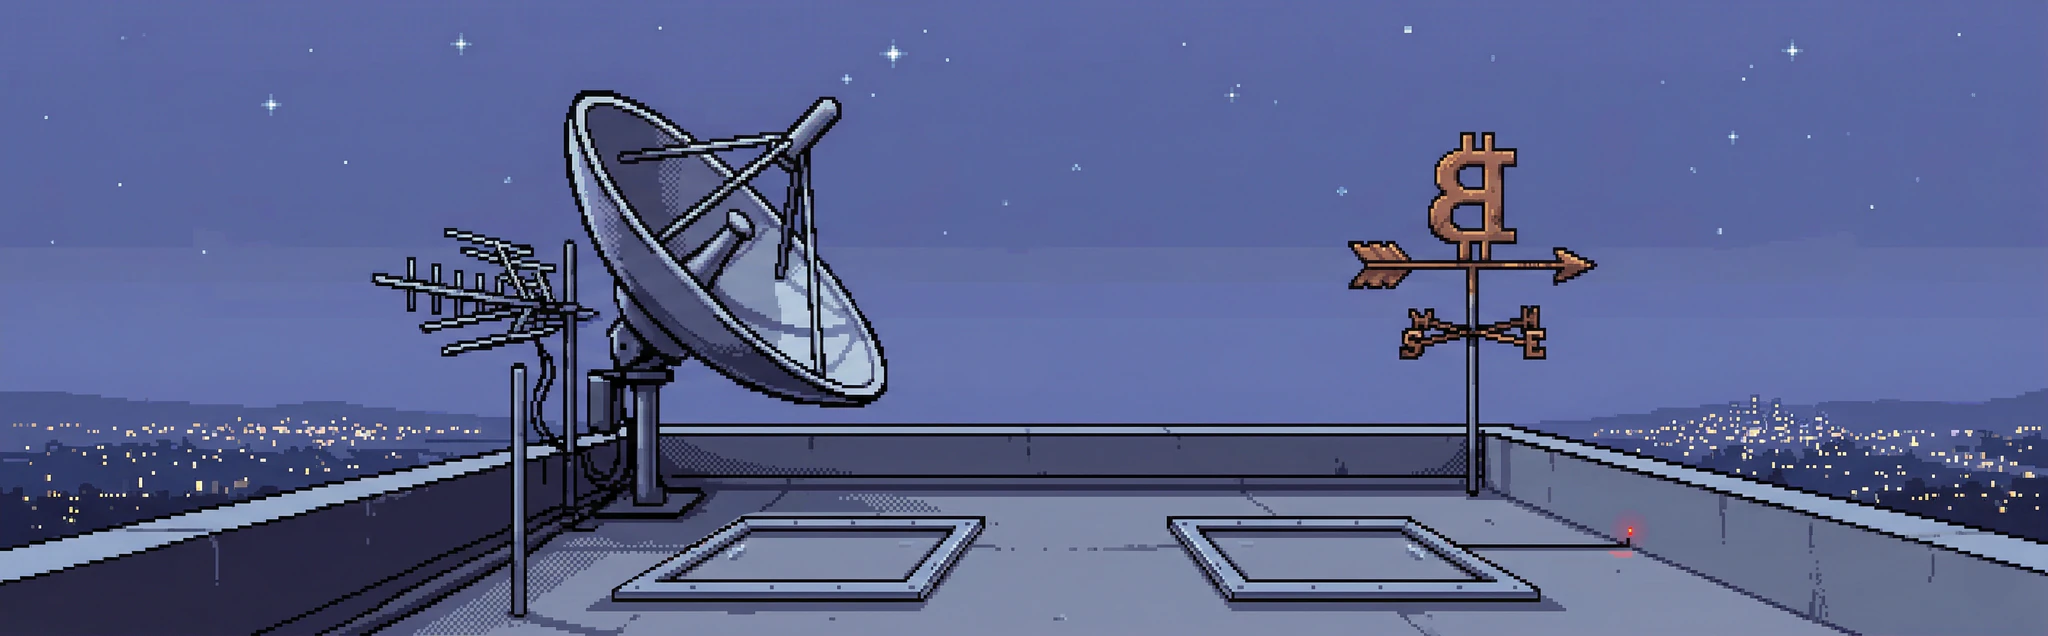
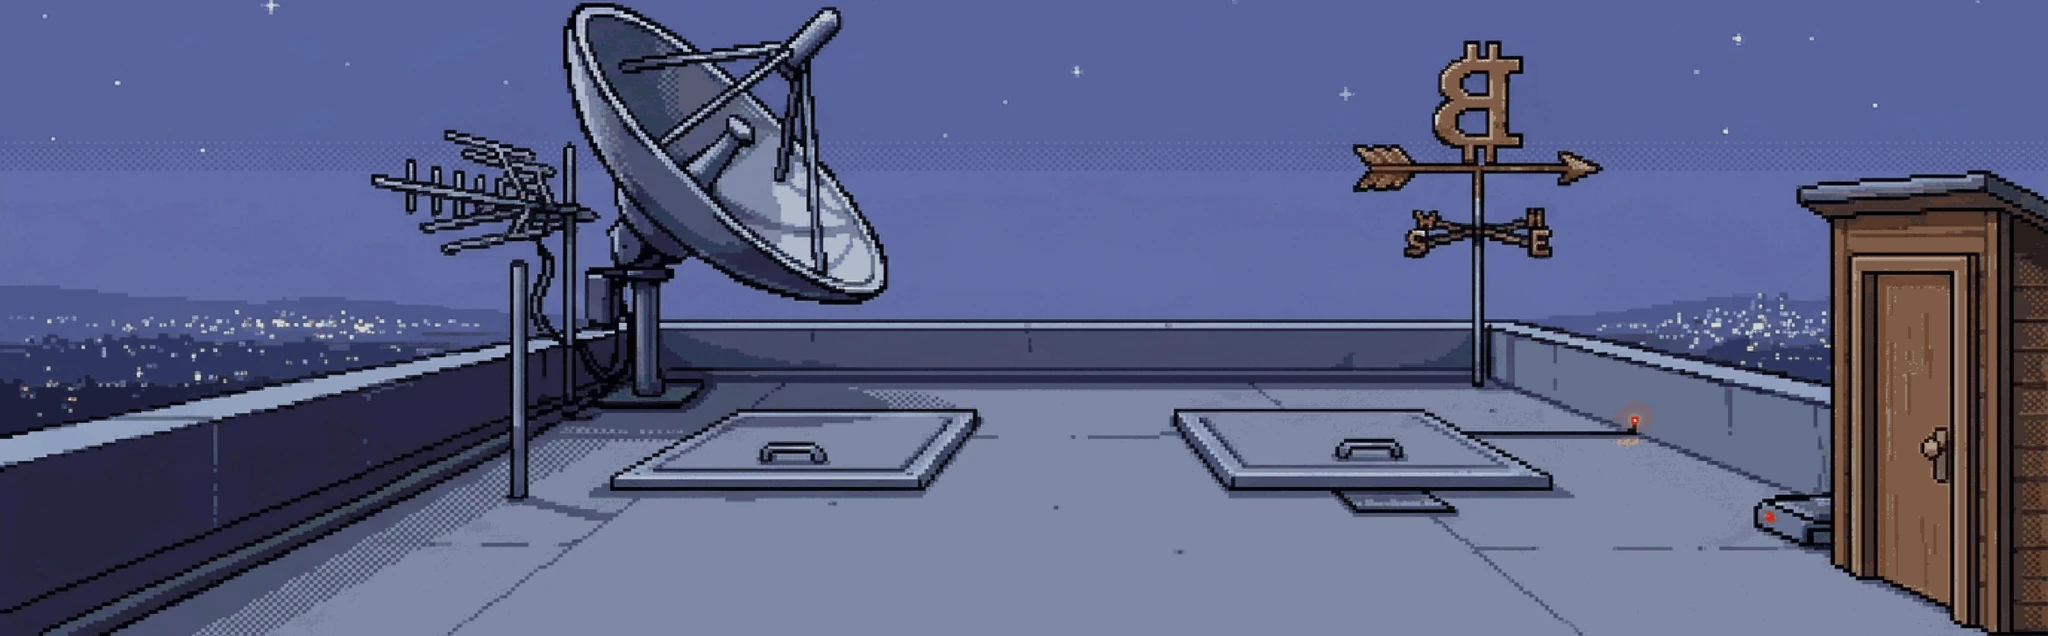
wip(scumm-F1): fondo nuevo de la azotea desde el arte de Adrián (franja 135-625, paleta de la casa, vecino más cercano) y vane_flipped en espejo

diff --git a/scripts/make-rooftop-bg.py b/scripts/make-rooftop-bg.py
@@ -1,0 +1,154 @@
+#!/usr/bin/env python3
+# F1 (plan SCUMM, «Arte pendiente»): fondo nuevo de la azotea a partir del arte de Adrián (Gem «Scumm Engine»,
+# art/rooftop/rooftop-gem-v1.jpeg, 1376x768, 16:9). Determinista: mismo JPEG => mismos bytes.
+#
+#   1. Franja y 135..625 del JPEG (490 px de alto, ancho entero): entra TODO lo interactivo (parabólica entera, veleta,
+#      trampillas, puerta hasta el suelo y el suelo andable hasta el borde del tejado). Una franja 3,2:1 pura (430 px)
+#      cortaba la parabólica o los pies de la puerta (ver docs/progreso/F1.md y --compare).
+#   2-3. Limpieza de JPEG = cuantización SIN tramado a la paleta de la casa: el ruido y los halos del JPEG caen en el
+#      color plano más cercano. 192 colores sacados (corte por la mediana) de los fondos de upstairs, lobby y el rooftop
+#      anterior (de noche; pesa 6 veces para que los grises lavanda no se vayan al verde azulado de la casa), más el rojo
+#      de la luz del sótano y el amarillo de las luces. Se probó una mediana 3x3 antes: se comía las luces de la ciudad
+#      y las estrellas (2 px en el JPEG), así que no se usa.
+#   4. Escala a 3712x1152 por vecino más cercano: x ×2,698, y ×2,351 (anisotropía 14,8 %, dentro del 15 % pedido).
+#   5. vane_flipped: la cabeza de la veleta (B, flecha y rosa de los vientos) en espejo sobre el eje del mástil, recortada
+#      a su caja; escribe bounds en scene.json (conditionalOverlays[id=vane_flipped]).
+#
+# Uso:  python3 scripts/make-rooftop-bg.py                 escribe background.png/.webp, @2048, @1280 y vane_flipped.webp
+#       python3 scripts/make-rooftop-bg.py --compare OUT   además una hoja comparando los recortes posibles
+# Las variantes @2048/@1280 se hacen como scripts/make-bg-variants.mjs (Lanczos, WebP con pérdida q90) pero con Pillow,
+# para no depender de sharp; `node scripts/make-bg-variants.mjs --check` las da por buenas (solo mira tamaños).
+import json
+import os
+import sys
+
+from PIL import Image
+
+ROOT = os.path.join(os.path.dirname(os.path.abspath(__file__)), '..')
+SRC = os.path.join(ROOT, 'art', 'rooftop', 'rooftop-gem-v1.jpeg')
+SCENE_DIR = os.path.join(ROOT, 'assets', 'scenes', 'rooftop')
+PALETTE_FROM = [('upstairs', 1), ('lobby', 1)]
+OLD_ROOFTOP = os.path.join(ROOT, 'art', 'rooftop', 'rooftop-old-palette.png')  # copia reducida del fondo anterior
+W, H = 3712, 1152
+CROP = (0, 135, 1376, 625)
+N_COLORS = 192
+EXTRA = [(255, 64, 56), (200, 40, 40), (255, 210, 120)]  # luz roja (núcleo y halo) y luces de la ciudad
+VARIANTS = (1280, 2048)
+WEBP_Q = 90
+
+
+def build_palette():
+    tiles = []
+    for scene, weight in PALETTE_FROM:
+        im = Image.open(os.path.join(ROOT, 'assets', 'scenes', scene, 'background.png')).convert('RGB')
+        tiles += [im.resize((928, 288), Image.NEAREST)] * weight
+    old = Image.open(OLD_ROOFTOP).convert('RGB').resize((928, 288), Image.NEAREST)
+    tiles += [old] * 6
+    mosaic = Image.new('RGB', (928, 288 * len(tiles)))
+    for i, t in enumerate(tiles):
+        mosaic.paste(t, (0, 288 * i))
+    q = mosaic.quantize(colors=N_COLORS - len(EXTRA), method=Image.Quantize.MEDIANCUT, dither=Image.Dither.NONE)
+    flat = q.getpalette()[: 3 * (N_COLORS - len(EXTRA))]
+    for c in EXTRA:
+        flat += list(c)
+    pal = Image.new('P', (1, 1))
+    pal.putpalette(flat + [0] * (768 - len(flat)))
+    return pal
+
+
+def make_background():
+    src = Image.open(SRC).convert('RGB')
+    band = src.crop(CROP)
+    q = band.quantize(palette=build_palette(), dither=Image.Dither.NONE).convert('RGB')
+    return q.resize((W, H), Image.NEAREST)
+
+
+def write_variants(bg):
+    bg.save(os.path.join(SCENE_DIR, 'background.png'), optimize=True)
+    bg.save(os.path.join(SCENE_DIR, 'background.webp'), lossless=True, quality=100, method=4)
+    for w in VARIANTS:
+        h = max(1, round(w * H / W))
+        bg.resize((w, h), Image.LANCZOS).save(os.path.join(SCENE_DIR, f'background@{w}.webp'), quality=WEBP_Q, method=6)
+
+
+def mast_axis(bg, y0, y1, x0, x1):
+    """Columna del mástil: la más oscura de media en una franja donde solo hay mástil y cielo."""
+    px = bg.load()
+    best, bx = None, x0
+    for x in range(x0, x1):
+        s = sum(sum(px[x, y]) for y in range(y0, y1, 4))
+        if best is None or s < best:
+            best, bx = s, x
+    return bx
+
+
+def make_vane(bg):
+    sx, sy = W / (CROP[2] - CROP[0]), H / (CROP[3] - CROP[1])
+    # el mástil, en el JPEG, va de x≈990 a 996 entre y≈345 y 380 (debajo de la rosa de los vientos, encima del pretil)
+    ax0 = mast_axis(bg, int((345 - CROP[1]) * sy), int((380 - CROP[1]) * sy), int(985 * sx), int(1001 * sx))
+    # ancho del mástil: columnas oscuras contiguas
+    px = bg.load()
+    yy = int((360 - CROP[1]) * sy)
+    lum = lambda x: sum(px[x, yy])
+    ref = lum(ax0)
+    left, right = ax0, ax0
+    while lum(left - 1) <= ref + 60:
+        left -= 1
+    while lum(right + 1) <= ref + 60:
+        right += 1
+    axis2 = left + right  # eje × 2 (el mástil puede tener ancho par)
+    # cabeza de la veleta: del JPEG x 900..1085, y 160..340 => caja simétrica sobre el eje
+    top, bottom = int((158 - CROP[1]) * sy), int((342 - CROP[1]) * sy)
+    half = int(max(axis2 / 2 - 900 * sx, 1085 * sx - axis2 / 2)) + 4
+    x0 = (axis2 + 1) // 2 - half
+    x1 = x0 + 2 * half + (axis2 % 2)
+    box = (x0, top, x1, bottom)
+    crop = bg.crop(box)
+    flip = crop.transpose(Image.FLIP_LEFT_RIGHT)
+    # si el ancho y el eje no casan al píxel, se corrige desplazando (el mástil tiene que quedar donde estaba)
+    flip.convert('RGBA').save(os.path.join(SCENE_DIR, 'vane_flipped.webp'), lossless=True, quality=100, method=6)
+    b = {'x': round(x0 / W * 100, 4), 'y': round(top / H * 100, 4), 'w': round((x1 - x0) / W * 100, 4),
+         'h': round((bottom - top) / H * 100, 4)}
+    path = os.path.join(SCENE_DIR, 'scene.json')
+    txt = open(path, encoding='utf-8').read()
+    data = json.loads(txt)
+    for co in data.get('conditionalOverlays', []):
+        if co.get('id') == 'vane_flipped':
+            co['bounds'] = b
+    with open(path, 'w', encoding='utf-8') as f:
+        f.write(json.dumps(data, ensure_ascii=False, indent=2) + '\n')
+    return box, b, (left, right)
+
+
+def compare(out):
+    src = Image.open(SRC).convert('RGB')
+    opts = [
+        ('A · franja 135-625 escalada no uniforme (14,8 %) [elegida]', (0, 135, 1376, 625)),
+        ('B · recorte 3,2:1 puro 195-625 (corta la parabólica)', (0, 195, 1376, 625)),
+        ('C · recorte 3,2:1 puro 135-565 (corta los pies de la puerta y el suelo)', (0, 135, 1376, 565)),
+        ('D · franja 135-625 a escala uniforme con bandas laterales (1568 de ancho)', None),
+    ]
+    tw, th = 1160, 362
+    sheet = Image.new('RGB', (tw, (th + 24) * len(opts)), (20, 20, 20))
+    from PIL import ImageDraw
+    d = ImageDraw.Draw(sheet)
+    for i, (label, box) in enumerate(opts):
+        if box:
+            im = src.crop(box).resize((tw, th), Image.NEAREST)
+        else:
+            band = src.crop((0, 135, 1376, 625))
+            im = Image.new('RGB', (1568, 490), (0, 0, 0))
+            im.paste(band, (96, 0))
+            im = im.resize((tw, th), Image.NEAREST)
+        sheet.paste(im, (0, i * (th + 24) + 24))
+        d.text((6, i * (th + 24) + 6), label, fill=(255, 255, 255))
+    sheet.save(out)
+
+
+if __name__ == '__main__':
+    if '--compare' in sys.argv:
+        compare(sys.argv[sys.argv.index('--compare') + 1])
+    bg = make_background()
+    write_variants(bg)
+    box, b, mast = make_vane(bg)
+    print('fondo', bg.size, 'colores', len(bg.getcolors(1 << 16) or []), 'veleta', box, b, 'mástil', mast)
